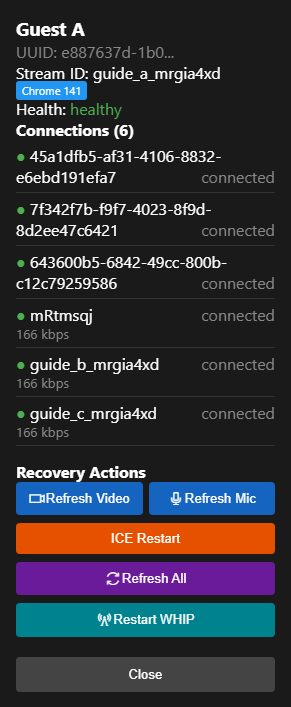
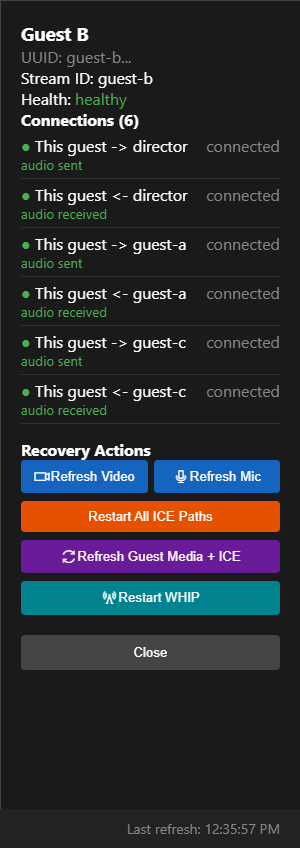
docs: update directional mesh recovery guide

diff --git a/guides/mesh-network-debug.md b/guides/mesh-network-debug.md
@@ -22,13 +22,13 @@ If moving A from the shared Wi-Fi to a hotspot fixes the problem, suspect the lo
 
 Use the least disruptive action first:
 
-1. Open **Mesh Network Debug** and refresh its data.
-2. For a B to A failure, select **B** and use **ICE Restart**. Wait 5 to 10 seconds, then refresh the diagram.
-3. If it is still broken, use **ICE Restart** on **A**.
+1. Ask B to speak, open **Mesh Network Debug**, and click **Refresh** while B is speaking.
+2. Select the **B -> A** arrow. If audio was sent but not received, use **Restart This ICE Path**. Wait 5 to 10 seconds, then refresh while B speaks again.
+3. If it is still broken, select B and use **Restart All ICE Paths**. This broader action can briefly disturb B's other peer connections.
 4. If the show must continue, send B to A through A's **Mix** control.
 5. After the show, reload B and then A one at a time. If the problem returns, test both guest links with `&relay`.
 
-Use **Refresh Mic** on B only when nobody can hear B or B's local microphone meter has stopped. Use **Refresh All** only when restarting B's microphone, camera, and peer connections together is acceptable.
+Use **Refresh Mic** on B only when nobody can hear B or B's local microphone meter has stopped. Use **Refresh Guest Media + ICE** only when restarting B's microphone, camera, and peer connections together is acceptable.
 
 ## Open Mesh Network Debug
 
@@ -36,28 +36,29 @@ In the director control center, select the mesh/network icon beside the room nam
 
 <figure><img src="../.gitbook/assets/mesh-audio-recovery/mesh-debug-button.png" alt="Director control-center header with the Mesh Network Debug icon beside the room controls"><figcaption><p>Select the connected-nodes icon beside the room name to open Mesh Network Debug.</p></figcaption></figure>
 
-<figure><img src="../.gitbook/assets/mesh-audio-recovery/mesh-overview.png" alt="Mesh Network Debug showing the director and Guests A, B, and C connected by six green peer lines"><figcaption><p>A reviewed four-node test room. The six green lines mean that every merged peer connection reported connected; they do not prove that every audio direction is flowing.</p></figcaption></figure>
+<figure><img src="../.gitbook/assets/mesh-audio-recovery/mesh-overview.png" alt="Mesh Network Debug showing separate directional arrows between the director and Guests A, B, and C, with the Guest B to Guest A audio path orange"><figcaption><p>A reviewed, staged four-node example. Guest B to Guest A is orange because B sent audio packets while A received none; the reverse A to B arrow remains green.</p></figcaption></figure>
 
 ### Read the diagram
 
 | Display | Meaning |
 | --- | --- |
 | Blue-outlined circle | Director |
-| Green-outlined circle | Guest whose reported peer connections are connected |
-| Orange-outlined circle | Guest with a new, connecting, disconnected, or closed connection |
+| Green-outlined circle | Guest with no detected directional problem |
+| Orange-outlined circle | Guest with a degraded connection or an expected media stream stalled on arrival |
 | Red-outlined circle | Guest with a failed connection |
 | Gray-outlined circle | Guest that reported no connections |
 | Purple square | Scene or view-only connection |
-| Solid green line | Reported `RTCPeerConnection.connectionState` is connected |
-| Dashed orange line | Connecting, disconnected, new, or closed |
-| Dashed red line | Failed |
-| Cyan double-dashed line | Marked as patched through the director's mix-minus path |
-| Arrow | The tool saw only one publishing direction |
+| Solid green arrow | The directional path is connected and expected RTP reached the listener during the sample, or no media was expected |
+| Dashed orange arrow | The path is degraded, or the publisher sent expected RTP while the listener received none |
+| Dashed red arrow | Failed |
+| Dashed gray arrow | Media flow could not be verified during the sample |
+| Cyan double-dashed arrows | Peer pair marked as patched through the director's mix-minus path |
+| Arrow direction | Publisher -> listener; A -> B and B -> A are separate paths |
 
-Select a guest node to see its browser, TURN badge, reported connections, and recovery controls. Select a line to see the merged connection details and any edge actions.
+Select a guest node to see its browser, TURN badge, reported connections, and guest-wide recovery controls. Select an arrow to see its publisher, listener, sender and receiver packet deltas, candidate path, track state, and directional recovery action.
 
-{% hint style="warning" %}
-A green line proves only that the peer connection reports `connected`. It does not prove that audio is present, increasing, or audible. The current diagram merges A to B and B to A reports into one edge, so it can also hide which direction is bad.
+{% hint style="info" %}
+The tool samples RTP for about one second. Ask the publisher to speak while clicking **Refresh**. A quiet sender is shown as unverified instead of stalled. A green audio arrow confirms packets reached the listener's browser; it does not prove the track was audible through the listener's selected output device or Web Audio path.
 {% endhint %}
 
 ### Node recovery controls
@@ -66,28 +67,29 @@ A green line proves only that the peer connection reports `connected`. It does n
 | --- | --- | --- |
 | **Refresh Mic** | Re-captures the selected guest's microphone | Nobody can hear that guest, or their mic capture stopped |
 | **Refresh Video** | Re-captures the selected guest's camera | Camera is frozen or missing |
-| **ICE Restart** | Requests ICE restarts for all of that guest's P2P connections | A path is failed, disconnected, or stalled |
-| **Refresh All** | Refreshes mic, video, and ICE | Less targeted actions failed and a broad interruption is acceptable |
+| **Restart All ICE Paths** | Requests ICE restarts for all of that guest's P2P connections | A targeted path restart failed, or several paths are degraded |
+| **Refresh Guest Media + ICE** | Refreshes mic, video, and every ICE path | Less targeted actions failed and a broad interruption is acceptable |
 | **Restart WHIP** | Restarts that guest's WHIP output | Only for a guest publishing through WHIP/MediaMTX/Meshcast-compatible output |
 
-**ICE Restart is guest-wide, not edge-specific.** For a B to A failure, start with B because B is the publisher for the missing direction. It may briefly disturb B's other connections.
+These node actions are guest-wide. For one bad direction, use the arrow's **Restart This ICE Path** action first.
 
-<figure><img src="../.gitbook/assets/mesh-audio-recovery/mesh-node-recovery-controls.png" alt="Guest A node details with connection states and Refresh Video, Refresh Mic, ICE Restart, Refresh All, and Restart WHIP controls"><figcaption><p>Select a guest node to inspect its reported connections and open the guest-wide recovery actions.</p></figcaption></figure>
+<figure><img src="../.gitbook/assets/mesh-audio-recovery/mesh-node-recovery-controls.png" alt="Guest B node details showing directional connection reports and guest-wide Refresh Video, Refresh Mic, Restart All ICE Paths, Refresh Guest Media and ICE, and Restart WHIP controls"><figcaption><p>Select a guest node to inspect its reported directions and open the guest-wide recovery actions.</p></figcaption></figure>
 
 ## Reconnect peers safely
 
-The current **Reconnect P2P** edge button is not a complete reconnect. It tells one endpoint to close the matching peer connection, but it does not create a replacement connection afterward. Avoid that button in a live room until it is fixed.
+Select the affected arrow and use **Restart This ICE Path**. The command uses the peer key reported by that endpoint and calls `restartIce()` on only the selected publisher-to-listener connection. It does not close the connection or restart the publisher's other peer paths.
 
-<figure><img src="../.gitbook/assets/mesh-audio-recovery/mesh-edge-recovery-actions.png" alt="A staged failed connection showing the Reconnect P2P and Patch via Mix-Minus actions"><figcaption><p>A staged failed-edge example. Use the panel to identify the endpoints, but avoid Reconnect P2P until its replacement-connection path is fixed.</p></figcaption></figure>
+<figure><img src="../.gitbook/assets/mesh-audio-recovery/mesh-edge-recovery-actions.png" alt="Guest B to Guest A directional path showing connected ICE, stalled listener audio, 18 sent packets and zero received packets, Restart This ICE Path, and Patch Peer Pair via Mix-Minus"><figcaption><p>The B -> A panel distinguishes a connected ICE transport from stalled audio and exposes the targeted ICE restart.</p></figcaption></figure>
 
-Use this sequence instead:
+Recovery sequence:
 
-1. Select the sender node and click **ICE Restart**.
-2. Wait 5 to 10 seconds and click **Refresh** in the toolbar.
-3. Select the receiver node and click **ICE Restart** if needed.
-4. If media capture itself is broken, use **Refresh Mic** or **Refresh All** on the sender.
-5. If the path still does not return, have the sender reload their page. Reload the receiver next if required.
-6. Rejoin both affected guests with a TURN recovery or forced-relay option if the same pair fails again.
+1. Ask the sender to speak and click **Refresh**.
+2. Select the affected sender -> listener arrow and click **Restart This ICE Path**.
+3. Wait 5 to 10 seconds, ask the sender to speak, and click **Refresh** again.
+4. If the directional restart fails, select the sender node and click **Restart All ICE Paths**.
+5. If media capture itself is broken, use **Refresh Mic** or **Refresh Guest Media + ICE** on the sender.
+6. If the path still does not return, have the sender reload their page. Reload the receiver next if required.
+7. Rejoin both affected guests with a TURN recovery or forced-relay option if the same pair fails again.
 
 Do not use **Hangup** as a reconnect button. It intentionally removes the guest and requires them to join again.
 
@@ -126,14 +128,16 @@ This flag does not remove the normal guest-to-guest P2P audio paths. Test the co
 
 ## Patch via Mix-Minus in the mesh view
 
-When a guest-to-guest line reports `failed` or `disconnected`, selecting it exposes **Patch via Mix-Minus**. The toolbar's **Auto-Patch Failed** action applies the same operation to every failed or disconnected guest-to-guest edge.
+When a guest-to-guest arrow is failed, disconnected, or has verified stalled audio, selecting it exposes **Patch Peer Pair via Mix-Minus**. The toolbar's **Patch Audio Problems** action applies the same operation to affected guest pairs.
 
 Use an edge patch only when both directions are unusable or when a short-lived emergency bridge is more important than possible doubled audio. The current patch:
 
 * relays both directions through the director, even if only one direction failed;
 * leaves the original direct tracks in place;
-* marks the line cyan immediately without confirming that replacement audio reached either guest; and
+* marks both arrows cyan immediately without confirming that replacement audio reached either guest; and
 * does not reliably restore the director's original outbound audio track when **Remove Patch** is selected.
+
+**Unpatch Recovered** removes an automatic/manual pair patch only after both directional arrows report healthy. Have both guests speak and refresh before relying on that check.
 
 For a one-way B to A failure, prefer A's per-guest **Mix** panel and select only B.
 
@@ -150,6 +154,8 @@ For the complete opt-in recovery bundle, use this on both A and B:
 This enables adaptive disconnect timing, automatic TURN escalation, and WHEP fallback signaling when WHIP/WHEP settings exist. It keeps direct P2P as the first choice; TURN is used only after recovery escalates and only when usable TURN servers are configured.
 
 If you want only automatic TURN escalation without the rest of that bundle, use `&autorelay=1`. Do not combine it with `&autorecover=1`; `autorecover` already enables the same relay behavior.
+
+If a link must never use TURN, use `&turn=0`. The current large-room recovery heuristic can override `&autorelay=0`, while `&turn=0` removes TURN servers and makes relay escalation unavailable.
 
 ### Force TURN relay
 
@@ -196,7 +202,7 @@ Also record:
 * the browser and operating system for each guest;
 * whether the affected guests share a router, access point, extender, or VLAN;
 * whether the mesh node or edge shows host, server-reflexive, or TURN relay candidates;
-* whether **ICE Restart**, a page reload, `&relay`, or `&relay&tcp` changes the result; and
+* whether **Restart This ICE Path**, **Restart All ICE Paths**, a page reload, `&relay`, or `&relay&tcp` changes the result; and
 * a `chrome://webrtc-internals` dump from the listener when possible.
 
 If inbound audio bytes for B increase at A while B remains inaudible, investigate A's playback element, output device, mute state, and Web Audio path. If the bytes do not increase, investigate the B to A transport, sender track, and ICE route.

diff --git a/guides/handling-guest-disconnects-and-connection-recovery.md b/guides/handling-guest-disconnects-and-connection-recovery.md
@@ -55,12 +55,13 @@ If room topology is large or network quality is inconsistent:
 
 When a specific guest-to-guest P2P edge fails during a live show:
 
-- Use **Mesh Network Debug** to inspect reported edges, but remember that its current merged green edge can hide a one-way audio failure.
+- Ask the publisher to speak, click **Refresh** in **Mesh Network Debug**, and inspect the separate publisher -> listener arrow. Orange can identify a one-way RTP stall even while ICE remains connected.
+- Select the affected arrow and use **Restart This ICE Path** before using guest-wide recovery actions.
 - For one-way audio, prefer the listener's per-guest **Mix** control over the bidirectional **Patch via Mix-Minus** edge action. Both require an existing director outbound audio sender and can duplicate audio if the direct path recovers.
-- Use **ICE Restart**, **Refresh Video**, **Refresh Mic**, or **Refresh All** actions per guest.
+- Use **Restart All ICE Paths**, **Refresh Video**, **Refresh Mic**, or **Refresh Guest Media + ICE** when broader per-guest recovery is needed.
 - If a guest is publishing via WHIP output, use **Restart WHIP** from director controls.
 
-See [Guest Audio Recovery and Mesh Debug](mesh-network-debug.md) for the current limitations and safe operating sequence. Avoid **Reconnect P2P** until its replacement-connection path is fixed.
+See [Guest Audio Recovery and Mesh Debug](mesh-network-debug.md) for the directional health indicators, targeted ICE restart, mix-minus fallback, and safe operating sequence.
 
 ## Broadcast-mode resiliency pattern
 

diff --git a/advanced-settings/turn-and-stun-parameters/and-autorelay.md b/advanced-settings/turn-and-stun-parameters/and-autorelay.md
@@ -17,7 +17,7 @@ Examples:
 | Value | Description |
 | --- | --- |
 | `1`, `true`, `on`, `yes` | Enable relay escalation during auto-recovery |
-| `0`, `false`, `off`, `no` | Disable relay escalation during auto-recovery |
+| `0`, `false`, `off`, `no` | Clear the explicit auto-relay opt-in; see the large-room caveat below |
 
 ## Details
 
@@ -28,7 +28,7 @@ Examples:
 - [`&autorecover`](../settings-parameters/and-autorecover.md) already enables this behavior, so combining both flags is redundant.
 
 {% hint style="info" %}
-Large rooms may still trigger relay escalation heuristics even without `&autorelay`, but enabling `&autorelay` makes this behavior explicit and predictable.
+The current large-room heuristic may still escalate an individual failed path when a page has at least five incoming peers, even with `&autorelay=0`. If TURN must be prohibited, use `&turn=0` on that link. `&stunonly` filters relay candidates, but `&turn=0` also removes TURN servers from the connection configuration.
 {% endhint %}
 
 ## Related

diff --git a/general-settings/turn.md b/general-settings/turn.md
@@ -10,7 +10,7 @@ General Option! ([`&push`](../source-settings/push.md), [`&room`](room.md), [`&v
 
 Example: `&turn=steve;setupYourOwnPlease;turn:turn.vdo.ninja:443`
 
-<table><thead><tr><th width="283">Value</th><th>Description</th></tr></thead><tbody><tr><td>(user;pwd;turnserveraddress)</td><td>Set this TURN server to turnserveraddress with username user and password pwd</td></tr><tr><td><code>false</code> | <code>off</code></td><td>Disable the use of the TURN servers</td></tr></tbody></table>
+<table><thead><tr><th width="283">Value</th><th>Description</th></tr></thead><tbody><tr><td>(user;pwd;turnserveraddress)</td><td>Set this TURN server to turnserveraddress with username user and password pwd</td></tr><tr><td><code>false</code> | <code>off</code> | <code>0</code></td><td>Remove TURN servers from the connection configuration</td></tr><tr><td><code>nostun</code></td><td>Remove configured STUN and TURN servers; host candidates may still be available</td></tr></tbody></table>
 
 ## Details
 

diff --git a/advanced-settings/settings-parameters/and-autorecover.md b/advanced-settings/settings-parameters/and-autorecover.md
@@ -27,7 +27,7 @@ When enabled, this currently enables:
 - Adaptive disconnect timing
 - Automatic WHEP fallback signaling where WHIP/WHEP settings are available
 
-When disabled (`&autorecover=0`), those recovery assists are turned off.
+When disabled (`&autorecover=0`), those three opt-in assists are turned off. Baseline ICE recovery still runs, and the current large-room heuristic may still attempt TURN escalation on an individual failed path. Use `&turn=0` when a link must never use TURN.
 
 {% hint style="info" %}
 Do not combine `&autorecover=1` with `&autorelay=1`. The recovery bundle already enables the same relay-escalation behavior. Use `&autorelay=1` by itself only when you want that narrower behavior.
